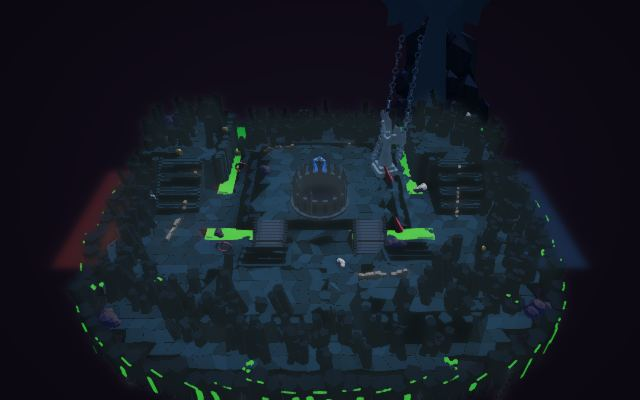
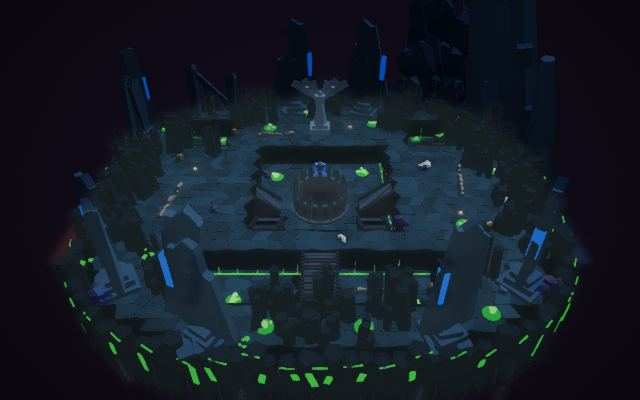
loop(605): solo map.fantasy_evil 3/4 gaps approved, map.fantasy_evil done

diff --git a/loop/LEDGER.md b/loop/LEDGER.md
@@ -3,6 +3,10 @@
 Rows: `file:identifier | value | last iter | verdict | earlier values`. P: no approved reversal within 20 iterations; two failed polish attempts spend a row. S/R replace mechanisms. The unit phase's ledger is `loop/archive/v4/LEDGER.md`.
 
 ## Structural attempts (iter | sha | item.criterion | verdict)
+605 | [R] fc3db046 | map.fantasy_evil.b1 | reject, rejected-kept (revert conflicts); 6 m routes, edge chambers; centre stayed solid
+605 | [R] 18965679 | map.fantasy_evil.a1-2 | approve,struck2 (ledge mushroom pads); a1 slab/gate/no-monument clauses cleared
+605 | [R] 89f441c4 | map.fantasy_evil.b1 | approve,struck1 (sunken central pit, front/back chambers, 8 m causeways)
+605 | [R] 01db5cf0 | map.fantasy_evil.a1 | approve,struck1 (seven slab shrines on plinths, mixed rim masses); CONFIRM a,b PASS -> D
 604 | 50cccd39 | map.spooky_2.b4 | approve,struck4 (deck from OUTLINE); CONFIRM a,b PASS -> D
 603 | 21d6f4ee | map.dynasty.a2 | approve,struck2 (level loop at grade, notch bridge)
 603 | 11e518f9 | map.dynasty.a1 | approve,struck1 (lawn tufts, turf (.4,.6,.33)); CONFIRM a,b PASS -> D
@@ -26,23 +30,12 @@ Rows: `file:identifier | value | last iter | verdict | earlier values`. P: no ap
 600 | ff505e0b, b79bc009 | map.fantasy_evil.a1 | approve, struck a1
 600 | d4289c91 | adventure.a_fierce_rider.b1 | approve, struck b1
 600 | ffe2e899, defaf4dd | adventure.the_tiniest_attack.b2 | approve, struck b2
-599 | 9b680d9d | map.pirate.a2 | approve, struck a2; second failed a/b CONFIRM -> plateau
-599 | a144846a, 4ab2e5aa | introduction.basic_formation.b3 | approve, struck b3; CONFIRM PASS -> D
-599 | af027c37 | introduction.ice_archers_only_almost.b3 | approve, struck b3; CONFIRM PASS -> D
-599 | f749b1d8 | map.fantasy_evil.a6 | approve, struck a6,a5; first CONFIRM a,b FAIL
-599 | ab0886e6, e8517b58 | map.fantasy_good.a5 | approve, struck a5
-599 | 368eeb98 | map.fantasy_good.b2 | approve, struck b2
-599 | 9a80277f | map.fantasy_good.a2 | approve, no strike
-599 | e5a967e4 | map.dynasty.a5 | approve, struck a5
-599 | 70907ec1 | map.dynasty.a4 | approve, struck a4
 
 ## Done maps (rows compacted; the maps are D and never tuned again)
-tribal_1, tribal_2, tribal_sandbox, farmer_1, farmer_2, farmer_snow, medieval_1, medieval_2, viking, viking_sandbox, ancient_1, ancient_sandbox, legacy (576-584), wild_west, ancient_2, renaissance, spooky_1 (565-587), simulation, hill, bridge, corridor (587-591), low_ground, defend_the_castle (588-592), high_ground (589-599), pirate (576-602), dynasty (576-603), spooky_2 (578-604): every row approved and CONFIRMed; values in their builders' spec comments and git log `loop(5xx)`.
+tribal_1, tribal_2, tribal_sandbox, farmer_1, farmer_2, farmer_snow, medieval_1, medieval_2, viking, viking_sandbox, ancient_1, ancient_sandbox, legacy (576-584), wild_west, ancient_2, renaissance, spooky_1 (565-587), simulation, hill, bridge, corridor (587-591), low_ground, defend_the_castle (588-592), high_ground (589-599), pirate (576-602), dynasty (576-603), spooky_2 (578-604), fantasy_evil (590-605): every row approved and CONFIRMed; values in their builders' spec comments and git log `loop(5xx)`.
 
 ## Tuned values
 web/src/map/tabs/fantasy_good.ts:viaductUnderside front | z-46.06 crown-3.2/spring-5.9/foot-14.1,5.4m openings/~7m pitch,6m returns | 601 | approve9e419281 | z-40.06 crown-1.6/spring-4.3/foot-12.5 masked by ledge
-web/src/map/tabs/fantasy_evil.ts:greenRim hosts | inherited domes replaced3faceted hosts each,8rim+4..6green mushrooms/host,caps.55..1.2/stems.4..1m | 601 | approvee40ca4f6 | magenta domes,6rim/caps.7..1.5
-web/src/map/tabs/fantasy_evil.ts:CLIFF_SHELVES/brokenCliffs | side(+/-37,25)h9,front(-12,-30)h4.5/(20,-31)h6;10m-wide12m16-tread stairs;colliders/buttresses;central3m | 601 | approve12ddab5e | five all-edge ramp shelves600
 web/src/campaign/stagePresentation.ts:tiniestSummit | stage-only18x16m hill(20,-9.9),crest6.5,height+cleanup | 601 | approvec283afb0 | flat Farmer
 web/src/campaign/stagePresentation.ts:rider | head xz,head/crest maxY+.08,seated joints,restore before sim | 601 | approvea744ccde,c0d6c20a,799d316d | torso-local anchors hidden;flat Halfling
 web/src/campaign/stagePresentation.ts:wheelbarrowArchCrown; stages/adventure.ts:wheelbarrow | cap(1.2,7.15,10)8x.5x3.6 top7.4,cart+crew lift;actor(2.6,10) | 601 | approve5f92ad8a | absent cap/lift;actor(29,0)
@@ -50,21 +43,13 @@ loop/scripts/capture-world.mjs:fantasyEvil poses, pirate army | island targety16
 web/src/map/tabs/fantasy_good.ts:openArcade | 1.6m rim beam; real5.4m openings/~7m pitch, 1.1x1.3m piers to-12.5, stone arch tubes r.65; basalt12..27m | 600 | approve4834759a, no strike | 12m solid rim with dark arch plates; basalt3..16m
 web/src/map/tabs/fantasy_good.ts:gateFacades | lancets10..25.5m, 18mosaic panes/window, pointed gold frame, triple peaked bands31.7..36m on both faces | 600 | approve79aae0c6, struck a2 | rectangular yellow panes with grid and tiny diagonal tips; gate size/spires unchanged
 web/src/map/tabs/fantasy_good.ts:frontFallSpill | 2m fall to ledge, spill toz-46.35, 22m opaque drop +6m alpha fade | 600 | approve a44979d1 [P], no strike; spill visible, fade uncredited | continuous30m drop at deck rim through ledge
-web/src/map/tabs/fantasy_evil.ts:blockLevel | five clipped shelves: central(0,10)h3, side(+/-37,20/24)h6, front(-12,-29)h3/(20,-31)h4.5; .75m treads/1.5m runs | 600 | approve bb5ee8bb, no strike | one rectangular plateau x+-24,z-6..34,h3 with2m runs
-web/src/map/tabs/fantasy_evil.ts:wingedMonument | robe29m at(32,27,38), hoody47, horns/raised arms, angular wings span36m at y31..50 | 600 | approve d0fccfc5, struck a2 | leaning47m tapered slab at(29.5,20.5,35.5); front chains retained
-web/src/map/tabs/fantasy_evil.ts:fracturedFloor | shared jittered3m staggered corners, .975 inset fractured plates with2m sides, outward winding, heights follow shelves | 600 | approve ff505e0b,b79bc009, struck a1 | regular2m grid of1.85m square instanced blocks
 web/src/campaign/stages/adventure.ts:a_fierce_rider | Mammoth leaderx2,z0, wingsx3.5,z+-4.6, rearx7,z-5.6/0/5.6; Halfling unchanged | 600 | approve d4289c91, struck b1 | Mammoths line atx2,z-12..8 step4
 web/src/campaign/stages/adventure.ts:the_tiniest_attack | 15upper+16lower irregular crop pockets x9..41,z-25..17; two obstacle clearances; Farmer unchanged | 600 | approve ffe2e899,defaf4dd, struck b2 | Halflings regular ranks x20/22.2/24.4,z+-9.9
 loop/scripts/capture-world.mjs:evidence poses | gate runtimeId departure at20ms, radius32; Basic army beta.24/field.2; Evil island targety8; Good island220/y8, top165/y8 | 599 | evidence validated; High b CONFIRM | gate attacker never arrived; Basic .77/.72; island200/y-10, top135/y0
-web/src/map/tabs/fantasy_evil.ts:leaningSpire | lone47m tapered slab at(29.5,20.5,35.5), two25-link front chains to statue plinth | 599 | approve, struck a6,a5; CONFIRM a/b FAIL | spire merged into crag, chains behind
 web/src/map/tabs/fantasy_good.ts:corruptedPits | black cracked obelisk and 4 groups of3 thorn vines, tops11..13m; r.28..38 | 599 | approve, struck a5 | absent; first vines buried in pits
 web/src/map/tabs/fantasy_good.ts:rearJog | x12..28 z32..40 band sheared by6m taper; deck/rim/kerb/parapet/arches and cut colliders | 599 | approve, struck b2 | stepped rear only
 web/src/map/tabs/ancient_1.ts:street placement zones | append4m street strips x+-(2..25), z+-10; original plazas first | 599 | stage/play PASS, formation CONFIRM D | plazas x+-(25..55) only
 web/src/map/tabs/viking.ts:innerIce zones | append x+-(1..27), z+-20; original outer zones first | 599 | stage/play PASS, formation CONFIRM D | inherited Challenge x+-(27..61) only
-web/src/map/tabs/fantasy_evil.ts:STATUE | (18,15) scale 1.05 yaw 1.27 (faces the ground camera), stone self .75, no shadows received; collider cylinder r 3.9 | 596 | approve, a5 statue clause | 594: (8,26) 1x facing -z, self .2, box collider
-web/src/map/tabs/fantasy_evil.ts:rockMass | (.09,.12,.14) self (.03,.04,.045); rim links 1.1 m x .28. 596 [P] (.2,.26,.32)/(.07,.09,.11), links 1.6 m: rejected (mass under the slab, unseen) | 596 | reject (attempt 1) | -
-web/src/map/tabs/fantasy_evil.ts:STAIRS/shrine/chasms/voidSky | flights |x|8..16 z-16..-6; shrine r6.2(0,1),altar(0,12); chasms4m acid(.15,.9,.2); void(.02,.012,.035); replaced floor/rim/monument in newer rows | 595 | approve590-595 | tree ring/maroon lawn/mauve sky
-web/src/map/tabs/fantasy_evil.ts:backdropCrag | 26 boulders 3 tiers tops 8/18/30 m x 22..56 z 46..62, (.2,.26,.32) self .35, out of glow; spire re-lit with it; 4 ledge chains (unseen) | 597 | approve | -
 web/src/map/tabs/fantasy_good.ts:pitShafts, waterfalls, frontLedge | floor (.08,.1,.16); navy liners; 6-10 hex columns r 1-2.1 tops -1.2..-6.5 (.55,.62,.72) self .3; channels 1.8 m to back pits, 3 front falls 30 m (.25,.62,1.05); ledge z -46..-40 at y -2, stairs x -50, 14 | 597 | approve | -
 web/src/campaign/stages/introduction.ts:all6 stages | approved + CONFIRMed D597-599; final formations in source/git loop(597..599); rows compacted | 599 | approve | scaffold rows
 web/src/map/tabs/fantasy_good.ts:PITS | 5 pits: tree x -34..-12 z -32..-12, obelisk 2..12 z -30..-19, open 22..40 z -32..-15, tree -26..-8 z 13..30, obelisk 6..16 z 19..31; 10 m deep, floor (.24,.3,.42) self (.06,.08,.12) | 596 | approve, struck b1 | 592: four x 6..30 z 9..30

diff --git a/loop/STATE.md b/loop/STATE.md
@@ -1,6 +1,6 @@
 # Loop state (v11: maps then stages; solo mode for stuck items; locked-list CONFIRM before done)
-Iteration: 604   Batch: maps_4+stages_adventure   Consecutive empty: 0   Done: 36/99   Parked: 0
-Solo: map.fantasy_evil   Queue: map.fantasy_good   Rounds: 0   Dry: 0
+Iteration: 605   Batch: maps_4+stages_adventure   Consecutive empty: 0   Done: 37/99   Parked: 0
+Solo: map.fantasy_good   Queue: (empty)   Rounds: 0   Dry: 0
 Batches, in order: maps_1, maps_2, maps_3, maps_4, stages_introduction, stages_adventure, stages_challenge, stages_dynasty, stages_renaissance, stages_pirate, stages_spooky, stages_simulation, stages_wild_west, stages_legacy, stages_fantasy_good, stages_fantasy_evil
 <!-- Item template: # <id>; Status: open|done|parked Audited: N(AUDIT x2),N(CONFIRM: passed a; failed b) Done: N
 ## Verdicts: a FAIL (0 since N; list from AUDIT|CONFIRM N): 1. <blocker verbatim> s2. <element> in <shot> (struck N) / a PASS(N: struck n; CONFIRM N); b likewise; c PASS(N judge) / c FAIL(N judge): <reasons>
@@ -12,7 +12,7 @@ Marks per a b c: + pass,- fail,? unscored. Status q queued,o open,D done,p parke
 maps_1: tribal_1 +++ D | tribal_2 +++ D | tribal_sandbox +++ D | farmer_1 +++ D | farmer_2 +++ D | farmer_snow +++ D
 maps_2: medieval_1 +++ D | medieval_2 +++ D | ancient_1 +++ D | ancient_2 +++ D | ancient_sandbox +++ D | viking +++ D | viking_sandbox +++ D
 maps_3: dynasty +++ D | renaissance +++ D | pirate +++ D | spooky_1 +++ D | spooky_2 +++ D | wild_west +++ D | legacy +++ D
-maps_4: fantasy_good --+ o | fantasy_evil --+ o | simulation +++ D | bridge +++ D | hill +++ D | corridor +++ D | defend_the_castle +++ D | high_ground +++ D | low_ground +++ D
+maps_4: fantasy_good --+ o | fantasy_evil +++ D | simulation +++ D | bridge +++ D | hill +++ D | corridor +++ D | defend_the_castle +++ D | high_ground +++ D | low_ground +++ D
 stages_introduction: clubs +++ D | army +++ D | hay_and_pitchforks +++ D | basic_formation +++ D | ice_archers_only_almost +++ D | longships +++ D
 stages_adventure: tree_tribe +-+ o | the_tiniest_attack +++ D | sneaky_tribe +-+ o | tree_mammoths +-+ o | final_destination_wheelbarrow +++ D | a_fierce_rider +++ D
 stages_challenge: ice_archer_and_friends ??? q | knights_and_priests ??? q | a_warm_welcome ??? q | zeus ??? q | twin_lords ??? q | big_brawl ??? q
@@ -26,19 +26,22 @@ stages_legacy: siege ??? q | a_tank ??? q | the_war ??? q | thor_s_battle ??? q
 stages_fantasy_good: colossal_spike ??? q | royal_archers ??? q | clash_of_warriors ??? q | chaotic_cavalry ??? q | vicious_terror ??? q | fortified_formation ??? q
 stages_fantasy_evil: encircling_tribe ??? q | raze_the_homestead ??? q | farmer_uprising_evil ??? q | storm_the_fortress ??? q | blasted_skirmish ??? q | dismantle_the_spears ??? q
 
-## Focus (iter604 solo map.spooky_2, 1 round: 1 [S]; BASE 10cc29f5)
-- r1 [S] map.spooky_2.b blocker4 (50cccd39) APPROVE, struck4 (deck from OUTLINE); b PASS; CONFIRM a,b PASS -> D
-- 1/1, 1 struck
-- maps_3 checkpoint: 23 stages on its maps a/c PASS (iter-604 judge.json); regression-only GREEN 12/12 (iter-604/summary.smoke.json); maps_3 dropped from Batch.
+## Focus (iter605 solo map.fantasy_evil, 2 rounds: 4 [R]; BASE 475b8176)
+- r1 [R] b1 (fc3db046) REJECT, rejected-kept (edge chambers, centre solid); [R] a1,a2 (18965679) APPROVE, struck a2; CONFIRM a PASS, b FAIL
+- r2 [R] b1 (89f441c4) APPROVE, struck1 (sunken central pit); [R] a1 (01db5cf0) APPROVE, struck1 (slab shrines on plinths); CONFIRM a,b PASS -> D
+- 3/4, 3 struck
 
 ## Last verdicts (critic header lines verbatim)
-GAP: [S] map.spooky_2.b blocker 4 (50cccd39)
+GAP: [R] map.fantasy_evil.b blocker 1 (89f441c4)
 VERDICT: APPROVE
-CRITERION: map.spooky_2.b PASS   (previous: FAIL)
-REGRESSIONS: none. judge.json: map.spooky_2.c and its three stages' a/c PASS. CONFIRM (locked list) passed a and b, no glance blocker.
+CRITERION: map.fantasy_evil.b PASS   (previous: FAIL)
+GAP: [R] map.fantasy_evil.a blocker 1 (01db5cf0)
+VERDICT: APPROVE
+CRITERION: map.fantasy_evil.a PASS   (previous: FAIL)
+REGRESSIONS: none. Criterion c stays PASS (605 judge).
 
 ## Notes for next iteration (max5lines)
-- 604 solo spooky_2 D in 1 round (iter-604/critic.md, confirm.md); thumbnail refreshed. 602 pirate D (2 rounds), 603 dynasty D (1 round).
-- Next solo: map.fantasy_evil, a and b plateau: [R] for each in round 1 (spec from CONFIRM 599+601 lists in its item file). Lists from CONFIRM: no glance. No stage fought on it.
-- Then map.fantasy_good (a, b plateau; well-count wording vs five PITS: reconcile in the R spec). Then the Queue is empty: drop Solo, batch mode resumes at stages_adventure (3 open).
+- 605 solo fantasy_evil D in 2 rounds (iter-605/critic.md, confirm.md, critic-r2.md, confirm-r2.md); thumbnail refreshed. 602 pirate, 603 dynasty, 604 spooky_2 D.
+- Next solo: map.fantasy_good (last in Queue), a and b plateau: [R] for each in round 1 (spec from its CONFIRM lists); well-count wording vs five PITS: reconcile in the R spec. Lists from CONFIRM: no glance.
+- When fantasy_good is D or p: drop Solo, run the maps_4 checkpoint (step 8), batch mode resumes at stages_adventure (3 open).
 - v11 (user, 2026-11-19): solo mode to D or Dry:6 park. CONFIRM notes on done maps live in their item files, not blockers.

diff --git a/loop/items/map.fantasy_evil.md b/loop/items/map.fantasy_evil.md
@@ -1,23 +1,21 @@
 # map.fantasy_evil
-Status: open   Audited: 587 (AUDIT x2), 599 (CONFIRM: failed a,b), 601 (CONFIRM: failed a,b)   Done: -
+Status: done   Audited: 587 (AUDIT x2), 599 (CONFIRM: failed a,b), 601 (CONFIRM: failed a,b), 605 (CONFIRM: passed a; failed b), 605 r2 (CONFIRM: passed a, b)   Done: 605
 ## Verdicts
-a FAIL (plateau; 0 since601): 1. Broken shrine silhouettes in map_fantasy_evil_island.png — TABS: several towering fractured slab shrines around the perimeter, including the large jagged shrine at the right and the broken left gate, rather than a near-uniform ring of basalt posts dominated by one giant winged figure (ref: reference/maps/wiki/fantasy_evil.png and reference/maps/void_evil.png). 2. Green mushroom clusters in map_fantasy_evil_top.png — TABS: conspicuous groups of pale green mushroom caps on ledges throughout the ruins, rather than predominantly bare ledges with flat neon green channels supplying the green accents (ref: reference/maps/wiki/fantasy_evil.png).
-b FAIL (plateau; 0 since601): 1. Interior chasm footprint in map_fantasy_evil_top.png — TABS: large deep open chambers separate the raised routes and expose tall vertical basalt walls, rather than narrow luminous channels surrounding a broad mostly solid central platform (ref: reference/maps/wiki/fantasy_evil.png and reference/maps/void_evil.png).
-c PASS (601 judge)
+a PASS (605: struck 1, 2; CONFIRM 605 r2, no glance)
+b PASS (605: struck 1; CONFIRM 605 r2, no glance)
+c PASS (605 judge)
 ## Ranked gaps
-1. [R] a fractured shrine perimeter — blockers1,2: towering broken shrines and conspicuous pale-green fungi on ledges; spec from CONFIRM599+601 — ref: reference/maps/wiki/fantasy_evil.png, reference/maps/void_evil.png — ours: map_fantasy_evil_island.png
-2. [R] b chasm/routes — blocker1: deep open chambers, tall walls between raised routes, broad stairs; spec from CONFIRM599+601 — ref: reference/maps/wiki/fantasy_evil.png — ours: map_fantasy_evil_top.png
+(none)
 ## Attempts (iter | gap | criterion | verdict)
-601 | [S] mushrooms e40ca4f6; islands12ddab5e | a3,b1(old list) | APPROVE,struckboth; a/b PASS -> second CONFIRM faileda,b
-600 | shelvesbb5ee8bb/monumentd0fccfc5/floorff505e0b,b79bc009 | b1,a2,a1 | APPROVE,strucka1,a2
-599 | spire/chainsf749b1d8 | a6 | APPROVE,strucka6,a5; first CONFIRM faileda,b
-597 | crag/chains89b4f29e/4818fb5b | a6 | APPROVE,no strike
-596 | statuef4eef72d/990ecde8; [P]da34040c | a5,a6 | S APPROVE; P REJECT
-595 | stairsda55aaca/rim27e30aa2/rock3b0cd8d4 | b2,a4,a6 | APPROVE,struckb2,a4,a6slab
-590-594 | void/floor/shrine/statue | a,b | old lists struck
+605 r2 | [R] seven slab shrines on plinths, mixed rim masses 01db5cf0 | a1 | APPROVE, struck a1 -> a PASS
+605 r2 | [R] sunken central pit, front/back chambers, x-run flights 89f441c4 | b1 | APPROVE, struck b1; CONFIRM a,b PASS -> D
+605 | [R] giant right slab, broken gate, slab shrines, ledge mushrooms 18965679 | a1,a2 | APPROVE, struck a2
+605 | [R] 6 m routes, three edge chambers fc3db046 | b1 | REJECT (centre solid), rejected-kept
+590-601 | void/floor/shrine/statue/stairs/rim/crag/spire/shelves/mushrooms | a,b | old lists struck; CONFIRM 599, 601 failed a,b
 ## Rejected (last 4)
+605 | [R] b fc3db046 | edge chambers left a solid central platform; kept (revert conflicts), superseded by 89f441c4
 596 | [P] a6 da34040c | rock mass under slab unseen; reverted
 ## Notes (max 3 lines)
-- No stage. Second counted CONFIRM failure601 puts a/b at plateau; R needs respective599+601 lists.
-- Four outer sheer islands/stairs and central3m shelf pass script play. Green caps replace inherited hill domes.
-- Keep explicit wall colliders at walk-in cliffs and whole-island camera685f65a9.
+- Done 605 (solo, 2 rounds). No stage is fought on it. Routes at GROUND 6 m, chamber floors 0 m; walls are box colliders, flight mouths open.
+- capture-world POSE_OVERRIDE fantasy_evil ground/battle target y 8 (deck at 6 m).
+- CONFIRM notes (not blockers): even far-rim posts, regular neon rim dashes, no chains between shrines, broad flat route band, rectangular pit rims, fog-washed front shrines.
